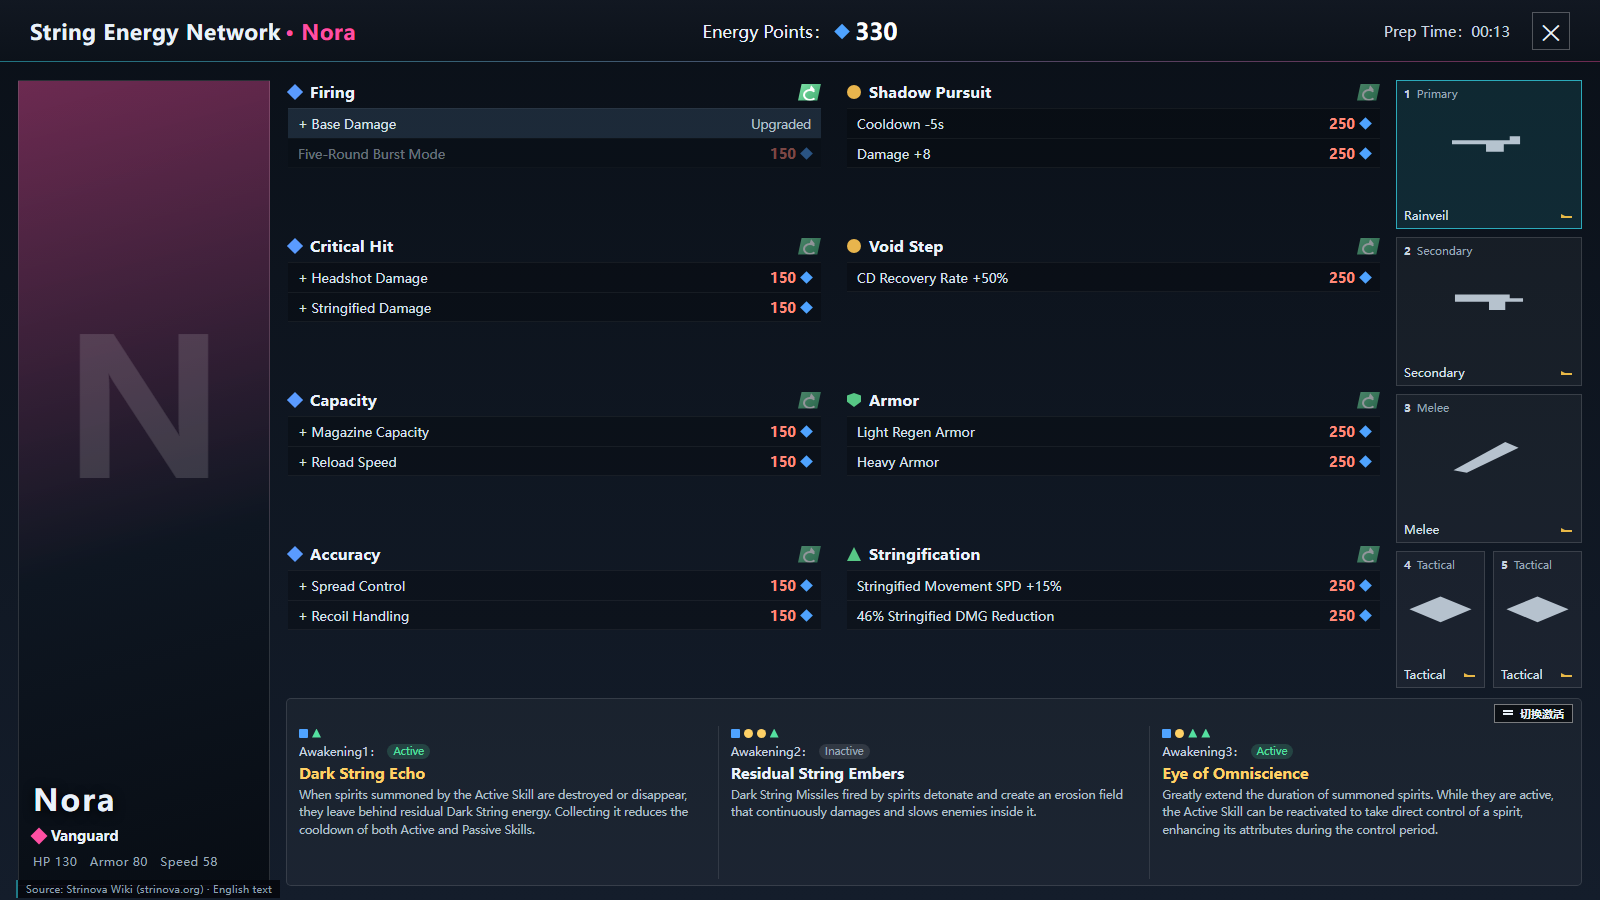
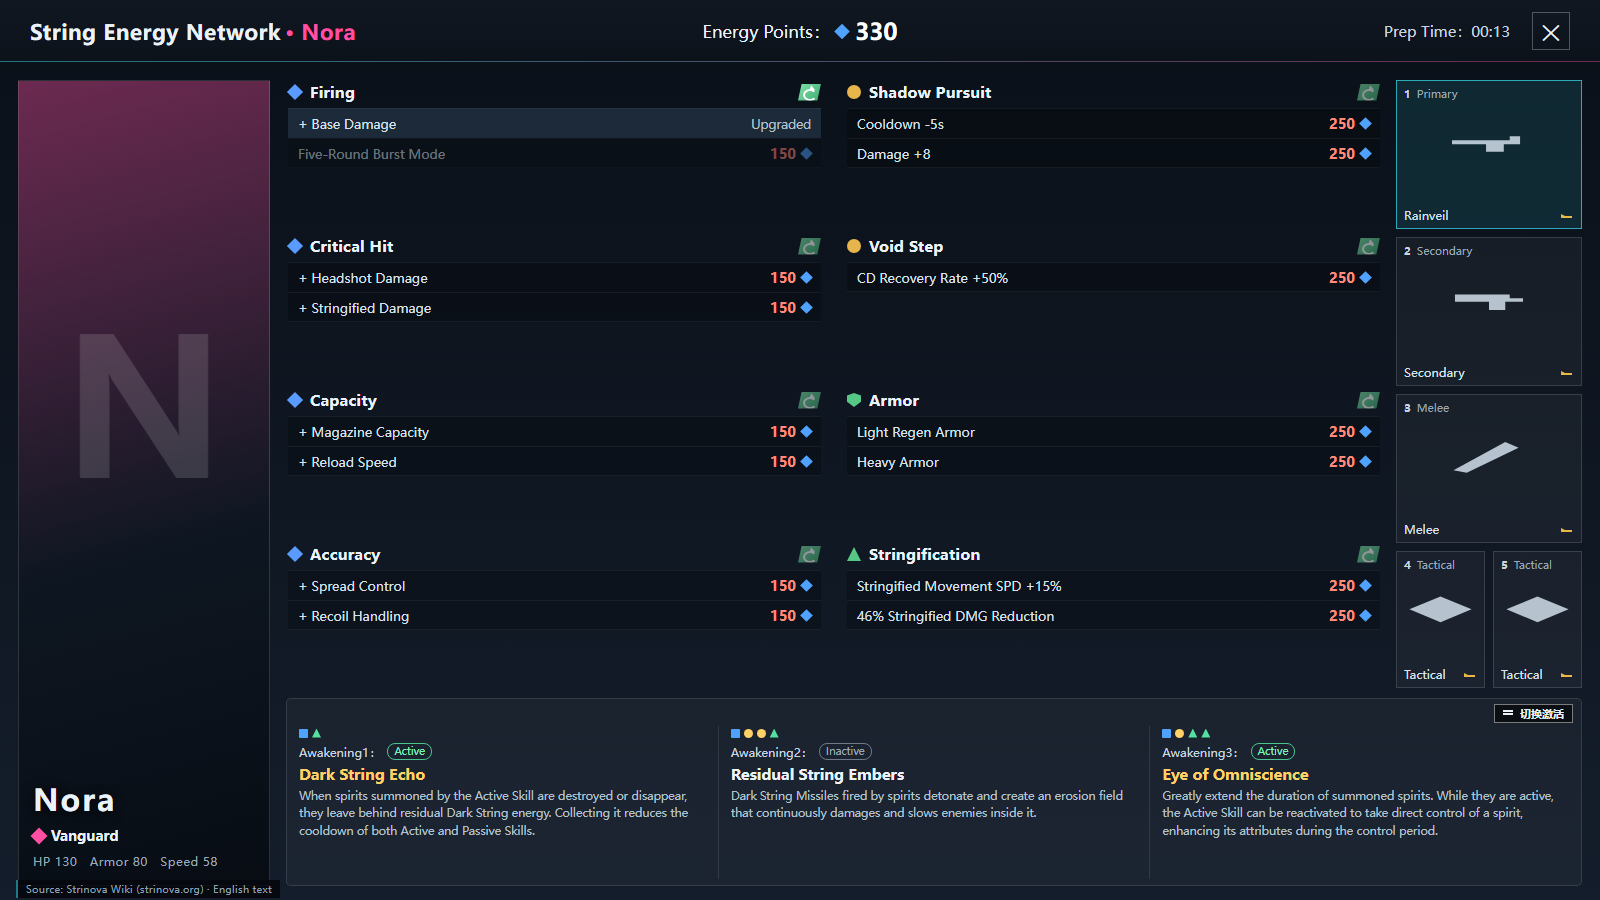
style: 觉醒状态徽章改为圆角描边（未激活灰框/已激活绿框，透明底）
- GrowthScreen：新增程序化 1px 圆角矩形描边绘制，状态徽章透明底 + 同色文字
- GrowthEditScreen 示意区同步描边样式
- 预览图同步

Changed region(s): [[0.7188, 0.8089, 0.9688, 0.9333], [0.1875, 0.8089, 0.4375, 0.9333], [0.4688, 0.8089, 0.6875, 0.9333]]

diff --git a/docs/ui/growth-real-en.html b/docs/ui/growth-real-en.html
@@ -103,8 +103,8 @@ body { font-family: "Microsoft YaHei", "Segoe UI", sans-serif; color: #EAF2FA; b
   .needneed.tri { clip-path:polygon(50% 0, 100% 100%, 0 100%); }
   .atop { display:flex; align-items:center; gap:6px; font-size:12px; color:#C8D4E0; margin-top:3px; }
   .status { padding:0 6px; border-radius:8px; font-size:10.5px; line-height:15px;
-    background:rgba(255,255,255,.10); color:#9AA8B8; }
-  .status.on { background:rgba(84,224,160,.18); color:#54E0A0; }
+    background:transparent; border:1px solid rgba(154,168,184,.65); color:#9AA8B8; }
+  .status.on { background:transparent; border-color:rgba(84,224,160,.85); color:#7BF0B8; }
   .aname { font-size:15px; font-weight:800; margin:4px 0 3px; color:#EAF2FA; }
   .acard.active .aname { color:#FFD166; }
   .adesc { font-size:11.5px; line-height:1.5; color:#B4C0CC;

diff --git a/docs/ui/growth-real-zh.html b/docs/ui/growth-real-zh.html
@@ -103,8 +103,8 @@ body { font-family: "Microsoft YaHei", "Segoe UI", sans-serif; color: #EAF2FA; b
   .needneed.tri { clip-path:polygon(50% 0, 100% 100%, 0 100%); }
   .atop { display:flex; align-items:center; gap:6px; font-size:12px; color:#C8D4E0; margin-top:3px; }
   .status { padding:0 6px; border-radius:8px; font-size:10.5px; line-height:15px;
-    background:rgba(255,255,255,.10); color:#9AA8B8; }
-  .status.on { background:rgba(84,224,160,.18); color:#54E0A0; }
+    background:transparent; border:1px solid rgba(154,168,184,.65); color:#9AA8B8; }
+  .status.on { background:transparent; border-color:rgba(84,224,160,.85); color:#7BF0B8; }
   .aname { font-size:15px; font-weight:800; margin:4px 0 3px; color:#EAF2FA; }
   .acard.active .aname { color:#FFD166; }
   .adesc { font-size:11.5px; line-height:1.5; color:#B4C0CC;

diff --git a/common/src/main/java/com/hhdxcz/strinova/client/StrinovaGrowthScreen.java b/common/src/main/java/com/hhdxcz/strinova/client/StrinovaGrowthScreen.java
@@ -1008,24 +1008,26 @@ public class StrinovaGrowthScreen extends Screen {
             cursor += 2;
         }
         int y = top + shape + 4;
-        if (y + 11 > bottom) {
+        if (bottom - y < 11) {
             return;
         }
-        // 2) 「觉醒N：」+ 紧跟的圆角状态徽章
+        // 2) 「觉醒N：」+ 紧跟的圆角描边状态徽章（透明底、1px 描边、文字内边距 4~6px）
         String label = "觉醒" + (index + 1) + "：";
         String statusText = Component.translatable(active
                 ? "config.strinova.growth.activated"
                 : "config.strinova.growth.not_activated").getString();
-        int badgeW = Math.min(this.font.width(statusText) + 8, Math.max(10, maxWidth));
-        int badgeH = 11;
+        int badgeTextW = this.font.width(statusText);
+        int badgeH = clamp(17, 11, Math.max(11, bottom - y));
+        int badgeW = Math.min(badgeTextW + 10, Math.max(12, maxWidth));
         String labelShown = truncate(label, Math.max(4, maxWidth - badgeW - 4));
-        graphics.drawString(this.font, labelShown, contentLeft, y, COLOR_TEXT_DIM, false);
+        int labelY = y + Math.max(0, (badgeH - 9) / 2);
+        graphics.drawString(this.font, labelShown, contentLeft, labelY, COLOR_TEXT_DIM, false);
         int badgeX = contentLeft + this.font.width(labelShown) + 4;
         if (badgeX + badgeW > contentLeft + maxWidth) {
             badgeX = contentLeft + maxWidth - badgeW;
         }
-        this.drawStatusBadge(graphics, badgeX, y - 1, badgeW, badgeH, active, statusText);
-        y += 12;
+        this.drawStatusBadge(graphics, badgeX, y, badgeW, badgeH, active, statusText);
+        y += badgeH + 3;
         // 3) 名称（激活金色）
         if (y + 9 <= bottom) {
             graphics.drawString(this.font,
@@ -1042,13 +1044,13 @@ public class StrinovaGrowthScreen extends Screen {
         }
     }
 
-    /** 圆角状态徽章：未激活灰底灰字，已激活绿底金字，文字居中。 */
+    /** 圆角描边状态徽章：透明底 + 1px 圆角矩形描边；未激活灰描边灰字、已激活绿描边绿字，文字居中且留 4~6px 内边距。 */
     private void drawStatusBadge(GuiGraphics graphics, int x, int y, int width, int height,
                                  boolean active, String text) {
-        int bg = this.cardColor(active ? 0xFF2E7D5B : 0xFF3A4756);
-        int fg = active ? 0xFFFFD166 : 0xFFB4C0CC;
-        drawRoundedRect(graphics, x, y, width, height, 3, bg);
-        String shown = truncate(text, Math.max(4, width - 4));
+        int border = active ? 0xFF54E0A0 : 0x998A94A0;
+        int fg = active ? 0xFF54E0A0 : 0xFF8A94A0;
+        drawRoundedOutline(graphics, x, y, width, height, 3, border);
+        String shown = truncate(text, Math.max(4, width - 10));
         graphics.drawString(this.font, shown,
                 x + Math.max(2, (width - this.font.width(shown)) / 2),
                 y + (height - 9) / 2, fg, false);
@@ -1073,6 +1075,36 @@ public class StrinovaGrowthScreen extends Screen {
                         (double) (r * r - (r - d - 1) * (r - d - 1))));
             }
             graphics.fill(x + inset, y + row, x + width - inset, y + row + 1, color);
+        }
+    }
+
+    /** 1px 圆角矩形描边（透明底，用于状态徽章；圆角约 3px 的阶梯像素）。 */
+    private static void drawRoundedOutline(GuiGraphics graphics, int x, int y, int width, int height,
+                                           int radius, int color) {
+        if (width <= 0 || height <= 0) {
+            return;
+        }
+        int r = Math.min(radius, Math.min(width / 2, height / 2));
+        if (r <= 0) {
+            graphics.fill(x, y, x + width, y + 1, color);
+            graphics.fill(x, y + height - 1, x + width, y + height, color);
+            graphics.fill(x, y, x + 1, y + height, color);
+            graphics.fill(x + width - 1, y, x + width, y + height, color);
+            return;
+        }
+        // 四边直线
+        graphics.fill(x + r, y, x + width - r, y + 1, color);
+        graphics.fill(x + r, y + height - 1, x + width - r, y + height, color);
+        graphics.fill(x, y + r, x + 1, y + height - r, color);
+        graphics.fill(x + width - 1, y + r, x + width, y + height - r, color);
+        // 四角阶梯像素
+        for (int i = 1; i < r; i++) {
+            int offset = r - i;
+            graphics.fill(x + i, y + offset, x + i + 1, y + offset + 1, color);
+            graphics.fill(x + width - 1 - i, y + offset, x + width - i, y + offset + 1, color);
+            graphics.fill(x + i, y + height - 1 - offset, x + i + 1, y + height - offset, color);
+            graphics.fill(x + width - 1 - i, y + height - 1 - offset,
+                    x + width - i, y + height - offset, color);
         }
     }
 

diff --git a/common/src/main/java/com/hhdxcz/strinova/client/StrinovaGrowthEditScreen.java b/common/src/main/java/com/hhdxcz/strinova/client/StrinovaGrowthEditScreen.java
@@ -817,24 +817,25 @@ public class StrinovaGrowthEditScreen extends Screen {
         if (lineY + 9 > bottom) {
             return;
         }
-        // 「觉醒N：」+ 圆角状态徽章
+        // 「觉醒N：」+ 圆角描边状态徽章（透明底、1px 描边，与真实界面一致）
         String label = "觉醒" + (index + 1) + "：";
         String statusText = active ? "已激活" : "未激活";
-        int badgeW = Math.min(this.font.width(statusText) + 6, Math.max(8, maxW));
-        int badgeH = 9;
+        int badgeTextW = this.font.width(statusText);
+        int badgeW = Math.min(badgeTextW + 8, Math.max(8, maxW));
+        int badgeH = 13;
         String labelShown = this.truncate(label, Math.max(4, maxW - badgeW - 3));
-        graphics.drawString(this.font, labelShown, mappedX, lineY, COLOR_TEXT_DIM, false);
+        graphics.drawString(this.font, labelShown, mappedX, lineY + 2, COLOR_TEXT_DIM, false);
         int badgeX = mappedX + this.font.width(labelShown) + 3;
         if (badgeX + badgeW > mappedRight) {
             badgeX = Math.max(mappedX, mappedRight - badgeW);
         }
-        this.drawMiniRoundedRect(graphics, badgeX, lineY - 1, badgeW, badgeH, 2,
-                active ? 0xFF2E7D5B : 0xFF3A4756);
-        String badgeShown = this.truncate(statusText, badgeW - 3);
+        this.drawMiniRoundedOutline(graphics, badgeX, lineY, badgeW, badgeH, 2,
+                active ? 0xFF54E0A0 : 0x998A94A0);
+        String badgeShown = this.truncate(statusText, Math.max(3, badgeW - 6));
         graphics.drawString(this.font, badgeShown,
                 badgeX + Math.max(1, (badgeW - this.font.width(badgeShown)) / 2),
-                lineY, active ? 0xFFFFD166 : 0xFFB4C0CC, false);
-        lineY += 11;
+                lineY + 2, active ? 0xFF54E0A0 : 0xFF8A94A0, false);
+        lineY += badgeH + 3;
         // 名称
         if (lineY + 9 <= bottom) {
             String name = src == null || src.name() == null ? ("觉醒" + (index + 1)) : src.name();
@@ -916,6 +917,34 @@ public class StrinovaGrowthEditScreen extends Screen {
                         (double) (r * r - (r - d - 1) * (r - d - 1))));
             }
             graphics.fill(x + inset, y + row, x + width - inset, y + row + 1, color);
+        }
+    }
+
+    /** 迷你 1px 圆角描边（透明底，状态徽章示意用）。 */
+    private void drawMiniRoundedOutline(GuiGraphics graphics, int x, int y, int width, int height,
+                                        int radius, int color) {
+        if (width <= 0 || height <= 0) {
+            return;
+        }
+        int r = Math.min(radius, Math.min(width / 2, height / 2));
+        if (r <= 0) {
+            graphics.fill(x, y, x + width, y + 1, color);
+            graphics.fill(x, y + height - 1, x + width, y + height, color);
+            graphics.fill(x, y, x + 1, y + height, color);
+            graphics.fill(x + width - 1, y, x + width, y + height, color);
+            return;
+        }
+        graphics.fill(x + r, y, x + width - r, y + 1, color);
+        graphics.fill(x + r, y + height - 1, x + width - r, y + height, color);
+        graphics.fill(x, y + r, x + 1, y + height - r, color);
+        graphics.fill(x + width - 1, y + r, x + width, y + height - r, color);
+        for (int i = 1; i < r; i++) {
+            int offset = r - i;
+            graphics.fill(x + i, y + offset, x + i + 1, y + offset + 1, color);
+            graphics.fill(x + width - 1 - i, y + offset, x + width - i, y + offset + 1, color);
+            graphics.fill(x + i, y + height - 1 - offset, x + i + 1, y + height - offset, color);
+            graphics.fill(x + width - 1 - i, y + height - 1 - offset,
+                    x + width - i, y + height - offset, color);
         }
     }
 
